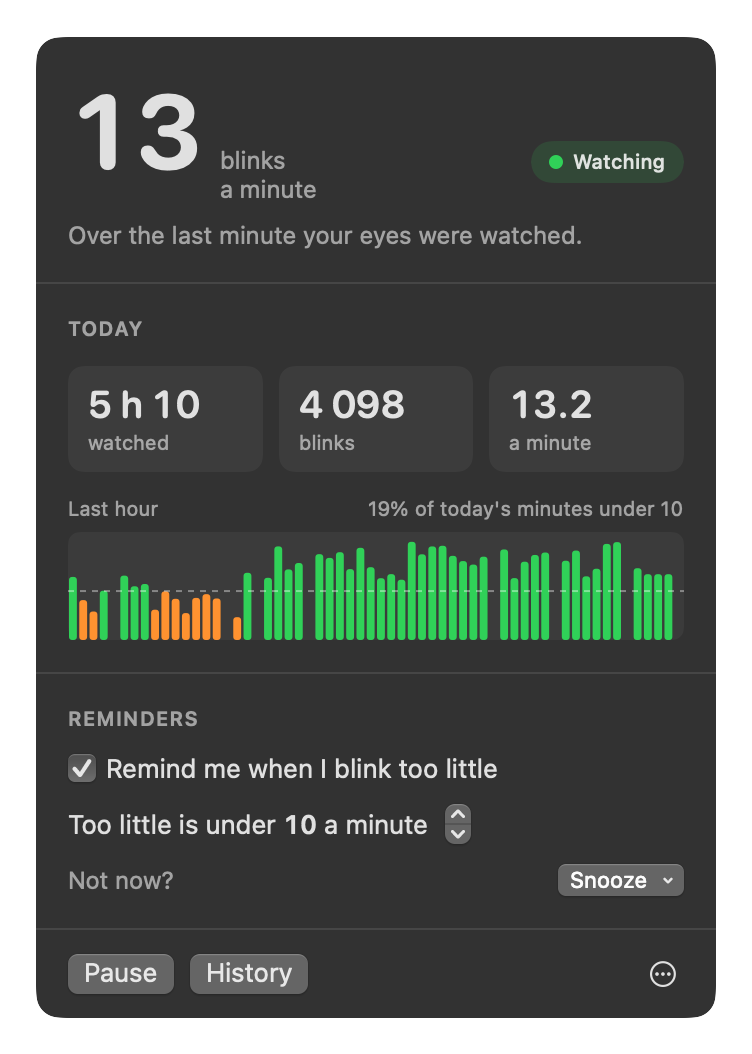
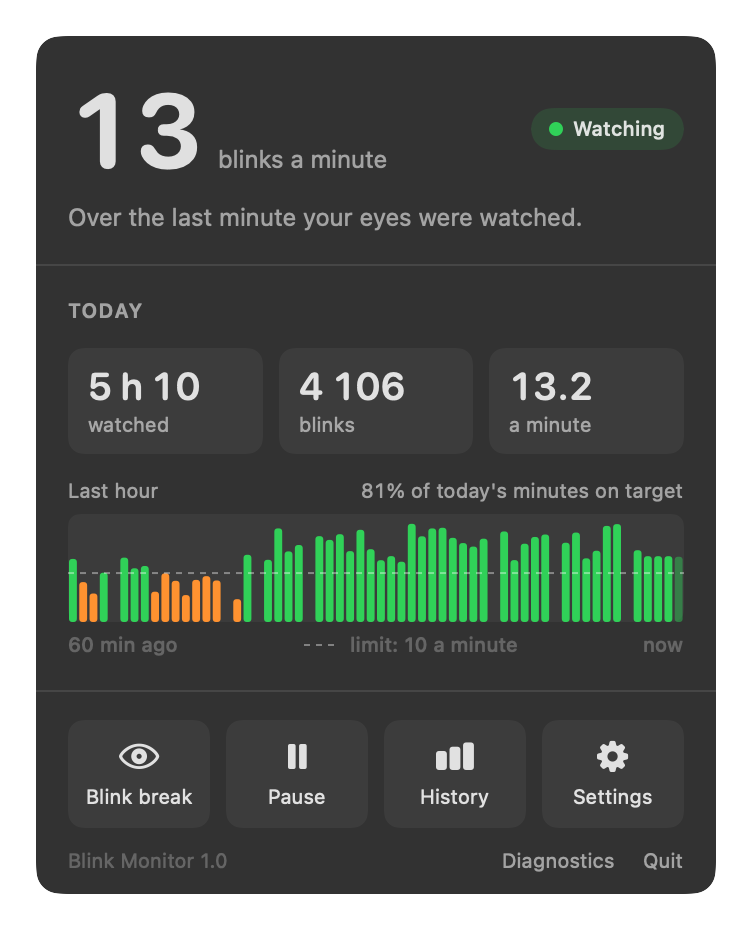
Document the new screens and state the measured processor cost
The cost table now has figures from the app's own log after an hour of use:
about 37% of one core while watching, under 5% with nobody in view, 240 MB.
Searching for the eyes every other frame saved 15% of a frame, not the 40%
expected; the README and the lessons say so.

Screenshots are rendered again, in every state worth looking at.

diff --git a/README.md b/README.md
@@ -5,12 +5,12 @@ network **you train on your own eyes**. Everything runs on your Mac: no picture 
 or sent anywhere.
 
 <p align="center">
-  <img src="docs/img/panel-light.png" alt="The menu-bar panel: 13 blinks a minute, today's totals, the last hour minute by minute" width="330">
+  <img src="docs/img/panel-light.png" alt="The menu-bar panel: 13 blinks a minute, today's totals, the last hour minute by minute, and four actions" width="330">
   &nbsp;&nbsp;
-  <img src="docs/img/history-light.png" alt="The history window: the last seven days and today hour by hour" width="500">
+  <img src="docs/img/history-light.png" alt="The history window: the last seven days, today hour by hour, the week as a heat map, and what stands out" width="480">
 </p>
 
-<sub>Screenshots are rendered by the app itself with made-up data (`make snapshots`).</sub>
+<sub>Screenshots are rendered by the app itself with made-up data (`make snapshots`). A window that is never shown draws its switches grey: read a switch by the side its knob is on.</sub>
 
 ## Why
 
@@ -22,12 +22,28 @@ and shipping it inside a real app.
 ## What it does
 
 - Shows your **blinks per minute** in the menu bar, with no Dock icon and no window.
-- Keeps a **minute-by-minute history** (numbers only) and shows today, the last hour, the
-  last seven days and the hours of the day when your rate drops.
+- Keeps a **minute-by-minute history** (numbers only): today, the last hour, any of the last
+  seven days hour by hour, the week as a heat map, and a few sentences on what stands out.
 - **Reminds you** when your rate stays low for three minutes; at most one reminder every
-  five minutes, none for the time you were away, and a snooze.
-- **Pause** switches the camera off for real. It also switches off when the screen sleeps
+  five minutes, none for the time you were away. The banner has two buttons: start a blink
+  break, or snooze for an hour.
+- **Blink break**: ten slow, full blinks, counted by the camera, with a sound at each one
+  because your eyes are closed.
+- **A limit that fits you, and does not follow you down.** The app measures your usual rate
+  once and sets the limit at 70% of it. See [the baseline](#a-baseline-that-does-not-follow-you-down).
+- **Look-away nudges** (off by default): after 20 minutes at the screen, look at something
+  far away for 20 seconds.
+- **Pause** for 15 minutes, an hour, until tomorrow or until you resume. It switches the
+  camera off for real and ends by itself; the camera also goes off when the screen sleeps
   or locks.
+
+<p align="center">
+  <img src="docs/img/panel-low-light.png" alt="The panel when the rate is low: 6 blinks a minute, the blink break highlighted, and 23% under the reference" width="270">
+  &nbsp;
+  <img src="docs/img/blink-break-light.png" alt="The blink break: a ring showing 6 of 10 blinks" width="270">
+  &nbsp;
+  <img src="docs/img/panel-pause-choices-dark.png" alt="The panel in dark mode, with the four pause choices" width="270">
+</p>
 
 ## How it works
 
@@ -53,6 +69,27 @@ about pictures made exactly like the ones it learned from.
   <img src="docs/img/poses.png" alt="The sixteen poses of a recording session, eight open and eight closed" width="820">
 </p>
 
+## A baseline that does not follow you down
+
+People do not blink alike, so one limit for everybody is wrong for many. The obvious fix is
+a personal baseline: learn your usual rate, warn when you fall well under it. It has a trap:
+a baseline that keeps averaging your recent weeks goes down with you. Blink a little less
+each month and it follows; a limit set at 70% of it follows too, and the app stops warning
+about exactly the decline it is there to catch.
+
+So the reference is built not to move by itself (`Sources/BlinkCore/History/Baseline.swift`):
+
+- It is **measured once**: the median of your first three hours watched, over at least two days. Then it is kept.
+- A decline is **reported, not absorbed**: "this week you blink 23% less than your reference", in the panel and in the History window.
+- **Measuring again is your decision.** If the new value is lower, Settings says so, and what it does to the limit, before you confirm.
+- The limit **never goes under a floor you set**, which covers a reference measured while you were already blinking too little.
+
+A test feeds it four weeks of steady decline and checks that neither the reference nor the limit has moved.
+
+<p align="center">
+  <img src="docs/img/settings-reminders-measured-light.png" alt="Settings: measuring again gave a lower value, and the app warns before adopting it" width="460">
+</p>
+
 ## Results
 
 Measured on one person (me), on recordings made in one morning. Read them as "it works
@@ -74,17 +111,22 @@ the hand-marked blinks pointed to; [Lessons](docs/LESSONS.md) tells that story.
 | | First version | Now |
 |---|---|---|
 | Handing one eye picture to Core ML | 9.1 ms | 0.12 ms |
-| Memory after running for a while | 591 MB after 11 min, 2.6 GB after 4 h (a leak) | 226 MB after 25 min |
-| Processor, one core | about 60% | 36 to 47%, before the last optimisation |
+| Memory after running for a while | 591 MB after 11 min, 2.6 GB after 4 h (a leak) | 240 MB after one hour |
+| Processor, one core, while watching you | about 60% | about 37% |
+| Processor, nobody in front of the camera | about 60% | under 5% |
 
-The last optimisation (searching for the eyes every other frame) is in the code but its
-effect is not in this table yet. The app logs its own cost once a minute to
+**One optimisation did not pay.** Finding the eyes (Apple Vision) is three quarters of a
+frame's cost, so searching on every other frame, and reading the same squares in between,
+should have nearly halved it. Measured by the app's own log: a frame went from about 14.5 ms
+to 12.3 ms, 15% less. Each search now takes about 18 ms where it took 12. I have not found
+out why yet, and 37% of a core is more than a background app should use; this is the next
+thing to work on. The app logs its cost once a minute to
 `~/Library/Application Support/BlinkMonitor/performance.csv`.
 
 ## Privacy
 
 - The camera picture is analysed in memory and dropped. Nothing is uploaded; the app makes no network connection.
-- What is kept: one line per minute (time watched, blinks) in `~/Library/Application Support/BlinkMonitor/history.csv`.
+- What is kept: one line per minute (time watched, blinks) in `~/Library/Application Support/BlinkMonitor/history.csv`. Settings shows the file and can erase it.
 - Pictures are written to disk only by the recorder and by the capture buttons of the diagnostics window, when you press them, to build your own training data.
 - This repository contains **no recordings and no trained model**. Both are personal, and both are yours to make.
 - Recordings are written to folders only your account can read.
@@ -118,7 +160,7 @@ Sources/BlinkCore       camera, eye finding and cropping, model, counting rules,
 Sources/BlinkUI         the SwiftUI views both apps share
 Sources/BlinkRecorder   the app that records labelled eye pictures
 Sources/BlinkMonitor    the menu-bar app
-Tests/BlinkCoreTests    60 tests (Swift Testing)
+Tests/BlinkCoreTests    80 tests (Swift Testing)
 training/               PyTorch training, Core ML conversion, labelling and evaluation tools, 23 tests
 scripts/                app bundling, icon drawing, manifest repair
 docs/                   how it works, lessons, development notes
@@ -127,6 +169,8 @@ docs/                   how it works, lessons, development notes
 ## Limits and roadmap
 
 - **One person, one morning.** The model has only seen its author, in daylight. Other light is untested.
+- **Processor use.** About 37% of one core while it watches you (see Results).
+- **Screen breaks are inferred.** The camera knows whether a face is in view, not where the eyes look.
 - **Glasses.** A screen reflection covering the iris can read as a closed eye.
 - **Looking down** at the keyboard looks like closed eyes from the camera's angle. A closure longer than 0.6 s is not counted as a blink, which covers most of it.
 - **Incomplete blinks** (the lid comes down part of the way) matter for dry eyes and are not measured yet.
@@ -135,8 +179,8 @@ docs/                   how it works, lessons, development notes
 ## Not a medical device
 
 Blink Monitor is a personal project and a learning exercise. Its numbers are not a
-diagnosis, and its default threshold of 10 blinks a minute is a starting point, not a
-medical limit. If your eyes hurt, see an eye-care professional.
+diagnosis, and its limits (10 blinks a minute to start with, then 70% of your own usual
+rate) are starting points, not medical ones. If your eyes hurt, see an eye-care professional.
 
 ## Licence
 

diff --git a/docs/DEVELOPMENT.md b/docs/DEVELOPMENT.md
@@ -18,7 +18,7 @@ Run `make` to list them.
 | `make train` | Train, cross-validate by session, save `models/eyenet.pt`, convert to Core ML |
 | `make evaluate` | Blink-level accuracy on the annotated captures |
 | `make monitor` | Build the menu-bar app, install it in `~/Applications`, start it |
-| `make snapshots` | Render every screen to `docs/img` with made-up data |
+| `make snapshots` | Render every screen, in every state worth looking at, to `docs/img` with made-up data |
 | `make icon` | Draw the app icon |
 | `make clean` | Remove build products. Never touches `data/` or `models/` |
 
@@ -42,16 +42,21 @@ Sources/BlinkCore/
     Model/       EyeClassifier: the Core ML model
     Detection/   EyeFinder and EyeReader (the stages for one frame), FrameSchedule,
                  BlinkDetector, BlinkStats
-    Monitoring/  MonitorStatus: what the monitor is doing, decided in one place
-    History/     minute records, the CSV stores, the reminder policy
+    Monitoring/  MonitorStatus (what the monitor is doing, decided in one place),
+                 PauseState, PresenceTracker (time at the screen), BlinkBreak
+    History/     minute records, the CSV stores, the reminder policy, Baseline (your
+                 reference and the limit), Insights (rates by hour)
     Recording/   SessionWriter and CaptureWriter: the on-disk formats
     Support/     logging, PNG and CSV files, stage timings, launch options
-Sources/BlinkUI/             the camera preview and its notes, shown by both apps
+Sources/BlinkUI/             the camera preview and its notes, shown by both apps;
+                             RateReadout, the one way the rate is written
 Sources/BlinkRecorder/       the recording app
 Sources/BlinkMonitor/
-    App/         entry point, MonitorModel (the facts), the pipeline, one small
-                 controller per subject, the screenshot renderer
-    MenuBar/     status item, panel, history and welcome windows
+    App/         entry point, MonitorModel (the facts), Preferences (every stored
+                 choice), the pipeline, one small controller per subject, the
+                 screenshot renderer
+    MenuBar/     status item, panel, and the history, settings, blink-break and
+                 welcome windows
     Diagnostics/ the diagnostics window
 Tests/BlinkCoreTests/        Swift Testing suites
 training/
@@ -85,7 +90,9 @@ The app's own files are in `~/Library/Application Support/BlinkMonitor/`: `histo
 ## Tests
 
 - **Swift** (`Tests/BlinkCoreTests`): geometry and cropping on frames painted in memory,
-  the counting rules on hand-written streams of answers, history, reminders, file formats.
+  the counting rules on hand-written streams of answers, history, reminders, file formats,
+  pauses, time at the screen, the blink break, and the baseline, including a month of
+  decline that must move neither the reference nor the limit.
   `ModelTests` compares the app's answers with Python's on real pictures and is skipped
   when there is no trained model on the machine (as in CI).
 - **Python** (`training/tests`): the labelling rule, the loader, the manifest tool, and
@@ -103,7 +110,8 @@ The project builds with the Swift Package Manager alone. Two consequences:
   macOS ties the camera permission to that signature, so it asks again after each rebuild
   whose code changed.
 - **Some macros are unavailable** with the Command Line Tools. SwiftUI's `@State` is one,
-  so view state lives in `ObservableObject` classes. Swift Testing's macros are present
+  so view state lives in `ObservableObject` classes (`PanelState`, `SettingsState`,
+  `HistoryState`), which also lets the screenshots start a window in any state. Swift Testing's macros are present
   but need a compiler flag, which `make test` adds when Xcode is absent.
 
 ## Conventions
@@ -112,4 +120,5 @@ The project builds with the Swift Package Manager alone. Two consequences:
 - A change to the pipeline is judged on `make evaluate` and on the stage timings, not on impressions.
 - The counting rules live in `BlinkDetector.swift` and `training/detector.py`; change them together. Tests compare the numbers, and the file formats, across the two languages.
 - What a window says is derived from facts (`MonitorStatus`), never stored and kept up to date by hand.
+- A new screen or state gets a line in `Snapshots.swift`, and is looked at in light and dark before it ships.
 - Nothing personal in the repository: check `git status` before committing new files under `docs/img`.

diff --git a/docs/LESSONS.md b/docs/LESSONS.md
@@ -1,4 +1,4 @@
-# Four things this project taught me
+# Six things this project taught me
 
 Each of these looked fine until something was measured or looked at. The numbers are from
 my own recordings: one person, one morning.
@@ -104,3 +104,43 @@ counted more false ones, so it is in the code, switched off, with its numbers.
 **What I keep from it:** measure the thing you care about, and let that measurement veto
 ideas that only sound right. One caution about these figures: the rule was chosen on the
 same three recordings it is reported on, so the 100% is the best case, not a promise.
+
+## 5. An optimisation that did not pay
+
+Finding the eyes with Apple Vision was most of the cost of a frame. The eyes do
+not move far in 33 ms, so the plan was simple: search every other frame, and on the frame
+in between read the same squares again. Half the searches, so close to 40% less work.
+
+The app writes its own cost to a file once a minute, so the before and after are its own
+numbers:
+
+| | Finding the eyes, per frame | Whole frame |
+|---|---|---|
+| Searching every frame | about 12 ms | about 14.5 ms |
+| Searching every other frame | about 9 ms | about 12.3 ms |
+
+15% less, not 40%. A search that runs half as often takes half as long again (about 18 ms
+instead of 12). I do not know why yet. The app still uses about 37% of one core while it
+watches, which is too much for something that runs all day.
+
+**What I keep from it:** the first README said the optimisation was "in the code, effect
+not measured yet". Had the log not existed, that sentence would have stayed, and I would
+have gone on believing a number I had only calculated.
+
+## 6. A baseline that would have hidden the problem
+
+A fixed limit ("under 10 blinks a minute is too little") suits few people, so the next
+feature was a personal one: learn the usual rate, warn at 70% of it. The first design was
+a rolling average of recent weeks.
+
+The objection came before any code was written: if someone blinks a little less every month, that
+average goes down with them, the limit goes down with it, and the app never says a word.
+It would adapt to precisely the decline it exists to catch.
+
+So the reference is measured once and kept. A decline is shown against it ("23% less than
+your reference") instead of being absorbed by it, measuring again is a button with a
+warning when the new value is lower, and the limit cannot go under a floor chosen by hand.
+A test feeds it four weeks of steady decline and checks that nothing has moved.
+
+**What I keep from it:** a measure that adapts to its subject stops measuring it. Ask of
+any "personalised" threshold what happens when the person slowly gets worse.

diff --git a/docs/HOW-IT-WORKS.md b/docs/HOW-IT-WORKS.md
@@ -107,17 +107,36 @@ and fails if the two copies differ.
 The rate shown is blinks per minute **of time your eyes were watched**: time away from the
 screen does not lower it. One record per minute of the clock is appended to a CSV file.
 
-A reminder needs evidence and restraint: a rate under your threshold over the last three
+A reminder needs evidence and restraint: a rate under your limit over the last three
 minutes, with at least two of them watched, and never more than one reminder in five
 minutes.
 
-## 7. Keeping it cheap
+**The limit.** It starts at 10 blinks a minute. Once three hours have been watched over at
+least two days, the app takes the median of those minutes as your reference and sets the
+limit at 70% of it, never under the floor you chose. The reference is then kept: nothing
+recomputes it. If you blink less as the weeks go by, the gap to the reference is reported
+("23% less than your reference") and the limit stays where it was. A baseline that followed
+you would lower the bar as you declined, and hide the very thing it is for. Measuring again
+is a button in Settings, with a warning when the new value is lower.
+
+## 7. Breaks and pauses
+
+Three small pieces of logic, each a tested type in `BlinkCore/Monitoring`:
+
+| Type | What it decides |
+|---|---|
+| `BlinkBreak` | The exercise counts every completed closure up to 3 s. Its blinks are slow on purpose and often last longer than the 0.6 s the counter accepts, so it has its own rule; the monitor's counting is not changed by it. |
+| `PresenceTracker` | Time at the screen since the last break, where a break is 20 s with no face in view. The camera cannot see where you look, so the count also restarts once a nudge has been shown. |
+| `PauseState` | A pause knows when it ends, ends by itself, and survives a relaunch. |
+
+## 8. Keeping it cheap
 
 The app runs all day, so its cost matters as much as its accuracy.
 
 - Eye pictures reach Core ML as pixel buffers in the model's own format. The first version
   passed images and paid 9 ms per picture for it ([Lessons](LESSONS.md), number 3).
 - The eyes are searched for every other frame; the frame in between reads the same squares.
+  This saved 15% of a frame's cost, not the 40% expected: each search got slower. The README has the numbers.
 - After 3 s without a face, one frame in six is analysed. (Both rules are one tested type, `FrameSchedule`.)
 - With no window open, the interface is updated on change and once a second.
 - The camera picture is only prepared while the diagnostics window shows it.
